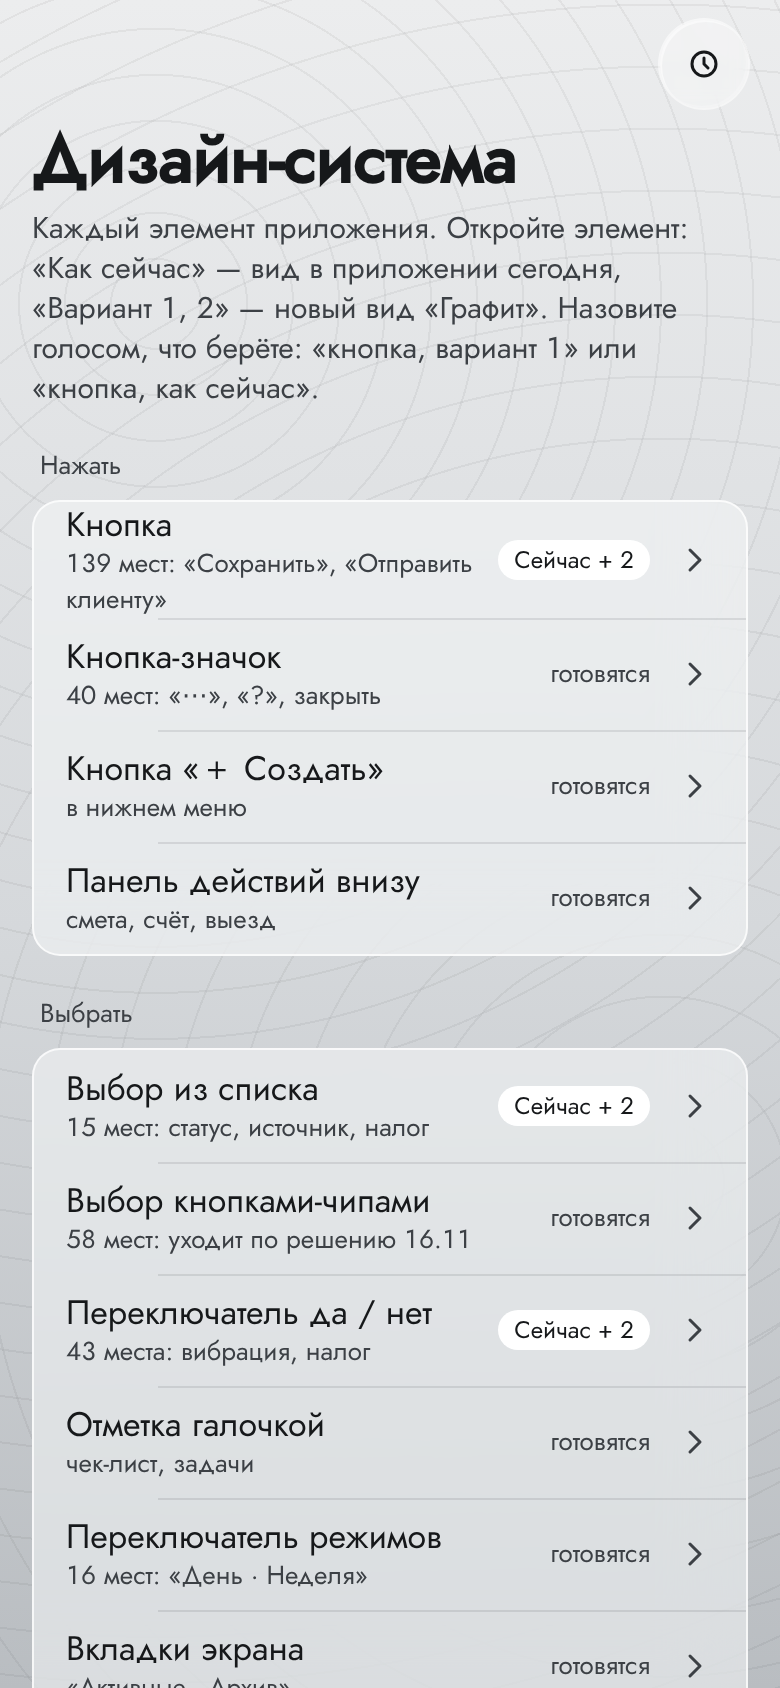
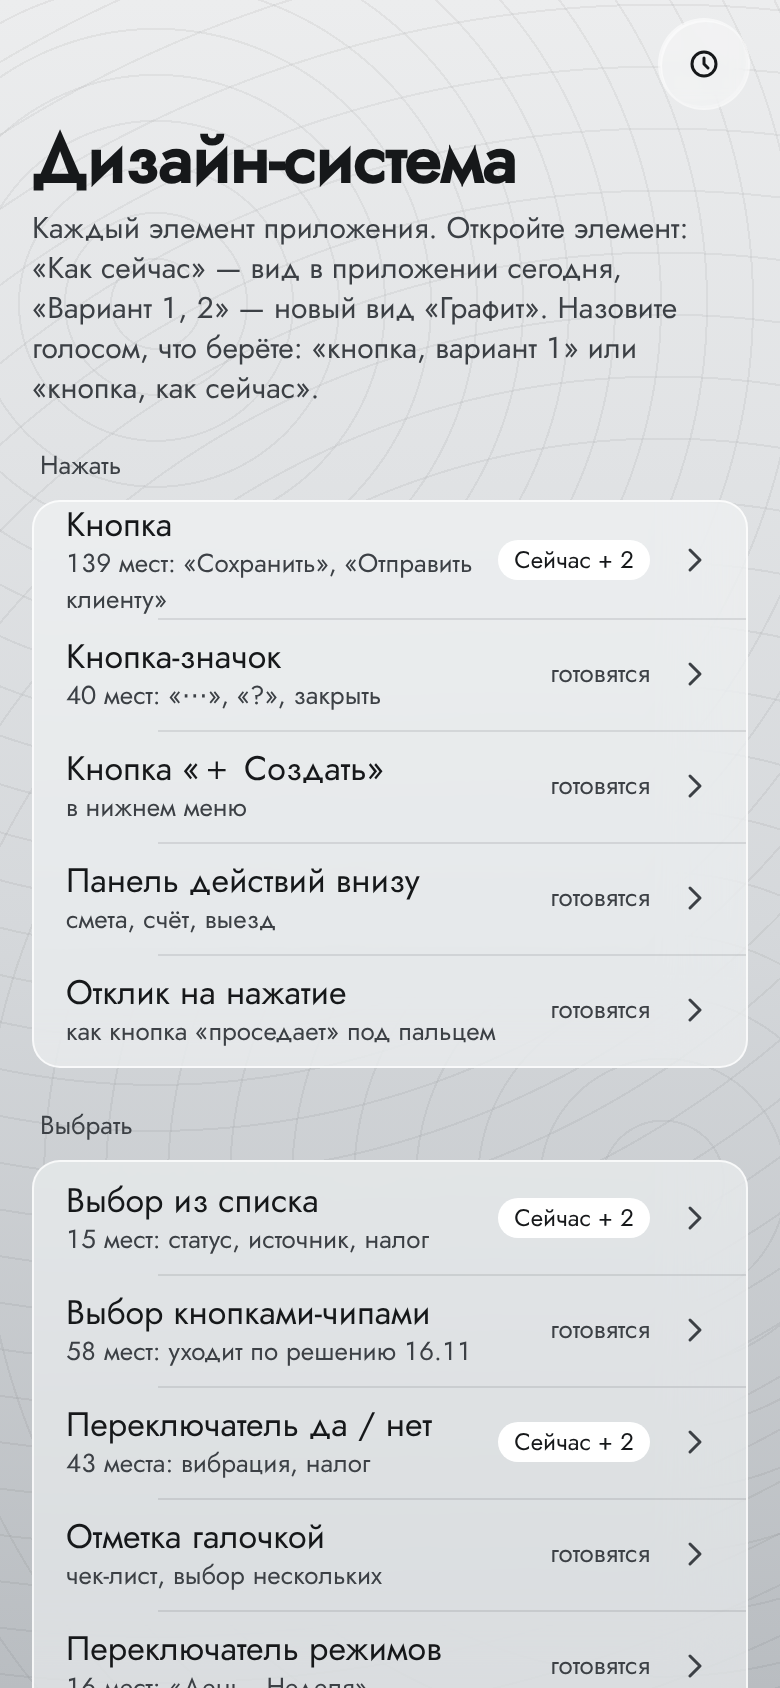
docs(prototype): 63 — каждый элемент описи в витрине: 111 элементов в 16 разделах (#2292)
Claude-Session: https://claude.ai/code/session_015CqH69V6tXC7o5qUoeyRTz

diff --git a/docs/prototypes/showcase-graphite-63/prototype.html b/docs/prototypes/showcase-graphite-63/prototype.html
@@ -210,6 +210,11 @@ const I = {
   check:'<path d="M5 10l3 3 7-7"/>', x:'<path d="M6 6l8 8M14 6l-8 8"/>',
   today:'<circle cx="10" cy="10" r="6"/><path d="M10 7v3l2 2"/>', plan:'<rect x="4" y="5" width="12" height="11" rx="2"/><path d="M4 9h12"/>',
   mic:'<rect x="8" y="3" width="4" height="9" rx="2"/><path d="M5 10a5 5 0 0 0 10 0M10 15v2"/>',
+  tip:'<circle cx="10" cy="10" r="7"/><path d="M10 9v5M10 6.5v.1"/>',
+  a11y:'<circle cx="10" cy="5" r="1.5"/><path d="M5 8h10M10 8v4l-3 5M10 12l3 5"/>',
+  out:'<path d="M8 4H4v12h12v-4M11 3h6v6M17 3l-8 8"/>',
+  words:'<path d="M4 6h12M4 10h8M4 14h10"/>',
+  push:'<path d="M4 10h10M10 5l5 5-5 5"/>',
   people:'<circle cx="10" cy="7" r="3"/><path d="M4 16c1-3 3-4 6-4s5 1 6 4"/>', chat:'<path d="M4 5h12v8H8l-4 3z"/>'
 };
 const ic = (k,cls='') => `<svg class="i ${cls}" viewBox="0 0 20 20" aria-hidden="true">${I[k]}</svg>`;
@@ -220,12 +225,13 @@ const GROUPS = [
   ['button','Кнопка','139 мест: «Сохранить», «Отправить клиенту»'],
   ['iconbtn','Кнопка-значок','40 мест: «⋯», «?», закрыть'],
   ['plus','Кнопка «＋ Создать»','в нижнем меню'],
-  ['actionbar','Панель действий внизу','смета, счёт, выезд'] ]],
+  ['actionbar','Панель действий внизу','смета, счёт, выезд'],
+  ['press','Отклик на нажатие','как кнопка «проседает» под пальцем'] ]],
  ['Выбрать','pick',[
   ['select','Выбор из списка','15 мест: статус, источник, налог'],
   ['chips','Выбор кнопками-чипами','58 мест: уходит по решению 16.11'],
   ['toggle','Переключатель да / нет','43 места: вибрация, налог'],
-  ['check','Отметка галочкой','чек-лист, задачи'],
+  ['check','Отметка галочкой','чек-лист, выбор нескольких'],
   ['segment','Переключатель режимов','16 мест: «День · Неделя»'],
   ['viewtabs','Вкладки экрана','«Активные · Архив»'],
   ['filter','Фильтр над списком','клиенты, сметы'],
@@ -233,25 +239,39 @@ const GROUPS = [
   ['statuspick','Смена статуса','смета, лид, работа'] ]],
  ['Ввести','type',[
   ['field','Поле','65 мест: имя, адрес, заметка'],
-  ['phone','Телефон и почта','карточка клиента'],
+  ['phone','Телефон и почта','несколько номеров, «Моб.», «＋»'],
   ['money','Число и деньги','цены, количество, проценты'],
-  ['date','Дата и время','выезд, срок счёта'] ]],
- ['Окна','win',[
+  ['date','Дата и время','выезд, срок счёта'],
+  ['fielderr','Ошибка и обязательное поле','«Укажите имя» под полем'],
+  ['keyboard','Клавиатура','«Далее», «Готово», что поднимается'] ]],
+ ['Окна и меню','win',[
   ['sheet','Шторка снизу','74 места: формы, выбор'],
+  ['sheetscroll','Прокрутка в шторке','длинный список внутри'],
+  ['sheetfull','Шторка на весь экран','новая смета, длинная форма'],
   ['confirm','Окно «Точно удалить?»','удаление, отправка, возврат денег'],
   ['inputwin','Окно с полем','переименовать, ввести число'],
   ['menu','Меню «⋯»','действия у кнопки'],
+  ['ctxmenu','Меню по долгому нажатию','действия со строкой'],
+  ['preview','Просмотр по долгому нажатию','клиент: долг, телефон, выезд'],
+  ['share','«Поделиться»','PDF, ссылка, печать — системное'] ]],
+ ['Подсказки','tip',[
   ['tip','Подсказка «ⓘ»','пояснение к числу или правилу'],
-  ['hint','Подсказка при первом входе','«Смахните вправо — позвоним»'] ]],
+  ['help','«?» у заголовка','справка по экрану'],
+  ['hint','Подсказка при первом входе','«Смахните вправо — позвоним»'],
+  ['hover','Подсказка при наведении','не берём: на iPhone наведения нет'] ]],
  ['Сообщения','msg',[
   ['toast','Всплывающее сообщение «Вернуть»','после удаления и других действий'],
+  ['toastprog','Сообщение с прогрессом','«Свернуть, продолжу в фоне»'],
   ['banner','Плашка-предупреждение','«Нет сети», «Счёт просрочен»'],
+  ['pushbanner','Уведомление при открытом приложении','новый лид, оплата'],
   ['status','Статус','«Оплачено», «Просрочено»: значок и слово'],
+  ['events','Цвета событий','«Горит»: просрочено, опаздывает, новый лид'],
   ['badge','Счётчик на значке','число на «Чатах»'],
-  ['sync','Сохранено и синхронизация','«Всё сохранено · 10:12»'] ]],
+  ['sync','Сохранено и нет сети','«Всё сохранено · 10:12»'] ]],
  ['Списки','list',[
   ['card','Карточка в списке','клиент, смета, счёт'],
   ['row','Строка','внутри карточки и в меню выбора'],
+  ['taskrow','Строка-задача','галочка слева, «›» если есть детали'],
   ['avatar','Аватар и метка','клиент, сотрудник, тег'],
   ['swipe','Смахнуть строку','«Удалить», «Позвонить»'],
   ['drag','Перетащить','порядок строк сметы'],
@@ -261,32 +281,73 @@ const GROUPS = [
   ['tabbar','Нижнее меню','Сегодня, План, ＋, Клиенты, Чаты'],
   ['header','Шапка экрана','заголовок, назад, «?»'],
   ['side','Боковое меню','планшет и компьютер'] ]],
- ['Ожидание и переходы','wait',[
+ ['Ожидание','wait',[
   ['loading','Загрузка','кружок и серые заготовки'],
   ['progress','Прогресс и шаги','«Шаг 2 из 4», выезд по шагам'],
   ['pull','Потянуть вниз, чтобы обновить','списки на главных вкладках'],
-  ['push','Переход между экранами','открыть клиента, назад'],
+  ['ai','«ИИ думает»','чек, чужая смета: этапы и счётчик'],
   ['error','Ошибка и нет сети','«Не удалось · Повторить»'] ]],
+ ['Переходы','push',[
+  ['push','Открыть и вернуться','строка → экран, «назад», свайп от края'],
+  ['sheetover','Шторка поверх экрана','создание: клиент, выезд, оплата'],
+  ['zoom','Увеличение из карточки','«Ближайший выезд» → выезд'],
+  ['shared','Имя летит в заголовок','имя и сумма из строки'],
+  ['tabswitch','Смена вкладок','растворение и луч'] ]],
  ['Шаблоны экранов','tpl',[
   ['t-list','Экран со списком','клиенты, сметы, счета'],
   ['t-card','Экран объекта','клиент, работа, смета'],
   ['t-form','Экран-форма','новый клиент, новый выезд'],
   ['t-wizard','Мастер по шагам','первый запуск'],
   ['t-doc','Документ','смета, счёт, чек'],
-  ['t-set','Настройки','компания, профиль'] ]],
+  ['t-set','Настройки','компания, профиль'],
+  ['safe','Вырез и края экрана','чёлка, полоска «домой»'],
+  ['wide','Планшет и компьютер','узкой колонкой до этапа IV'] ]],
+ ['Доступность','a11y',[
+  ['bigtype','Крупный шрифт из настроек iPhone','до 200 %, текст переносится'],
+  ['voiceover','VoiceOver','что читает экран'],
+  ['lessmotion','Меньше движения','растворение вместо сдвига'],
+  ['lesstrans','Меньше прозрачности','стекло становится сплошным'],
+  ['morecontrast','Больше контраста','кромки толще, текст ярче'],
+  ['focus','Рамка фокуса','клавиатура на компьютере'] ]],
+ ['Клиенту и вне приложения','out',[
+  ['x-pdf','PDF сметы и счёта','печатный вид, после этапа IV'],
+  ['clientpage','Страница клиента','смета и оплата по ссылке'],
+  ['mail','Письма и SMS','отправка сметы, код входа'],
+  ['push-text','Пуш-уведомления','текст и вид'],
+  ['live','Экран блокировки и виджеты','«В пути», «Ждём оплату»'],
+  ['appicon','Значок приложения','на экране «Домой»'] ]],
  ['Особые места','spec',[
   ['x-draw','Холст рисунка Gutters','своё: рисунок пальцем'],
   ['x-tape','Рулетка Gutters','своё: протяжка числа'],
   ['x-sign','Подпись клиента','своё: рисование'],
   ['x-launch','Запуск приложения','знак GoRix'],
-  ['x-pdf','PDF сметы и счёта','печатный вид'] ]],
+  ['photo','Фото: съёмка и лента','объект, чек'],
+  ['charts','Графики','выручка, воронка'],
+  ['maps','Карты','адрес выезда, после 1.0'] ]],
+ ['Слова и форматы','words',[
+  ['tone','Слова и тон','«Вернуть», «Отмена», «Отменить смету»'],
+  ['formats','Деньги и даты','$1,234.50, 11/20/2026'],
+  ['longtext','Длинные слова RU / ES','ничего не обрезается'],
+  ['perm','Запрос разрешения','камера, уведомления'] ]],
  ['Основа','base',[
-  ['colors','Цвета','фон, панели, текст, жёлтый, статусы'],
+  ['colors','Цвета','фон, панели, текст, жёлтый'],
   ['type','Шрифт','заголовки, текст, цифры'],
-  ['space','Отступы и скругления','поля экрана, между блоками, углы'],
-  ['icons','Значки','все значки приложения'],
+  ['space','Отступы','поля экрана, между блоками'],
+  ['radius','Скругления','углы кнопок, панелей, шторки'],
+  ['heights','Высоты элементов','44 / 52 / 56'],
+  ['lines','Линии и кромки','разделители, края панелей'],
+  ['depth','Тени и глубина','в «Графите» вместо теней — стекло'],
+  ['layers','Что поверх чего','меню, окна, всплывающие'],
+  ['glass','Стекло','матовое и «жидкое»'],
+  ['relief','Фон «Рельеф»','линии как на карте'],
+  ['icons','Значки','весь набор, перерисовка'],
   ['motion','Движение','скорость окон, шторок, переходов'],
-  ['haptics','Вибрация','отклик на нажатие и успех'] ]]
+  ['waits','Сколько ждать','когда показывать загрузку'],
+  ['haptics','Вибрация','отклик на нажатие и успех'],
+  ['sounds','Звуки','после 1.0'],
+  ['density','Плотность и печать','компьютер, после 1.0'],
+  ['illus','Иллюстрации','пустые экраны, после 1.0'],
+  ['drawing','Цвета чертежа и печати','этажи, бумага'] ]]
 ];
 const ALL = Object.fromEntries(GROUPS.flatMap(([,,els])=>els.map(e=>[e[0],{id:e[0],name:e[1],where:e[2]}])));
 
